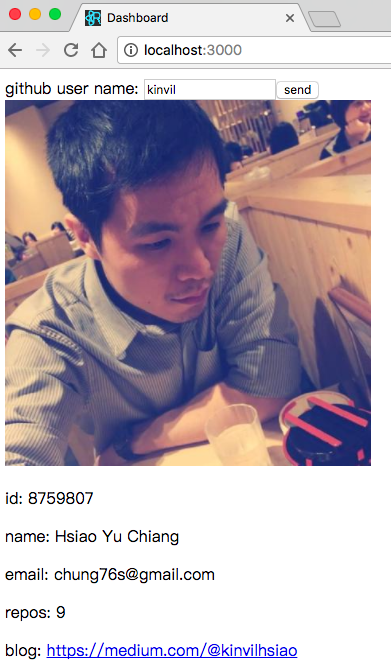
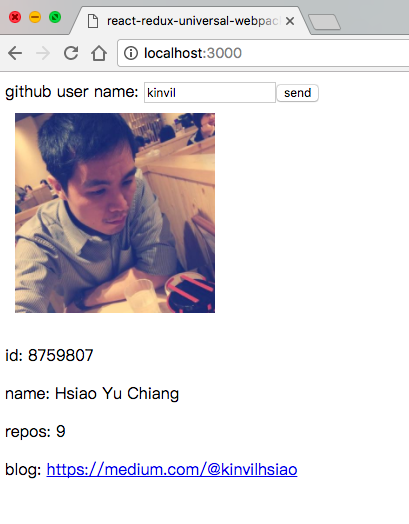
modify readme and delete unuse code.

diff --git a/webpack/webpack-isomorphic-tools.js b/webpack/webpack-isomorphic-tools.js
@@ -2,33 +2,8 @@ var WebpackIsomorphicToolsPlugin = require('webpack-isomorphic-tools/plugin');
 
 module.exports = {
     assets: {
-        fonts: {
-            extensions: ['woff', 'woff2', 'ttf', 'eot'],
-            parser: WebpackIsomorphicToolsPlugin.url_loader_parser
-        },
         style_modules: {
-            extensions: ['css','sass'],
-            filter: function (module, regex, options, log) {
-                if (options.development) {
-                    return WebpackIsomorphicToolsPlugin.style_loader_filter(module, regex, options, log);
-                } else {
-                    return regex.test(module.name);
-                }
-            },
-            path: function (module, options, log) {
-                if (options.development) {
-                    return WebpackIsomorphicToolsPlugin.style_loader_path_extractor(module, options, log);
-                } else {
-                    return module.name;
-                }
-            },
-            parser: function (module, options, log) {
-                if (options.development) {
-                    return WebpackIsomorphicToolsPlugin.css_modules_loader_parser(module, options, log);
-                } else {
-                    return module.source;
-                }
-            }
+            extensions: ['css','sass']
         }
     }
 }

diff --git a/src/server/server.js b/src/server/server.js
@@ -1,7 +1,6 @@
 import path from 'path'
 import express from 'express'
 import compression from 'compression'
-import httpProxy from 'http-proxy'
 import helmet from 'helmet'
 import serialize from 'serialize-javascript'
 import React from 'react'
@@ -57,7 +56,7 @@ function renderFullPage(html, preloadedState) {
 <html>
     <head>
         <meta charset="UTF-8">
-        <title>Dashboard</title>
+        <title>react-redux-universal-webpack2-boilerplate</title>
         <link rel="stylesheet" type="text/css" href=${assets.styles.bundle}>
     </head>
     <body>

diff --git a/src/common/store/configureStore.dev.js b/src/common/store/configureStore.dev.js
@@ -2,7 +2,6 @@ import { createStore, applyMiddleware } from 'redux'
 import thunk from 'redux-thunk'
 import { createLogger } from 'redux-logger'
 import { routerMiddleware } from 'react-router-redux'
-
 import rootReducer from '../reducers'
 import api from '../middleware/api'
 

diff --git a/src/common/store/configureStore.prod.js b/src/common/store/configureStore.prod.js
@@ -1,7 +1,6 @@
 import { createStore, applyMiddleware } from 'redux'
 import thunk from 'redux-thunk'
 import { routerMiddleware } from 'react-router-redux'
-
 import rootReducer from '../reducers'
 import api from '../middleware/api'
 

diff --git a/README.md b/README.md
@@ -3,14 +3,30 @@ A boilerplate for react, react-router v3, redux, webpack2.
 
 It a simple react, redux, universal hot boilerplate. You can input a github user name and it will request github api to get user's profile.
 
-![demo](/doc/images/demo.png)
+
+# feature
+
+- React
+- React-router v3
+- Redux
+- Webpack 2
+- Universal(isomorphic)
+- React-hot-loader
+- Express
+- Babel
 
 # install
+
 ```
 $ npm install
 ```
 
 # start
+
 ```
 $ npm start
 ```
+
+# demo
+
+![demo](/doc/images/demo.png)
